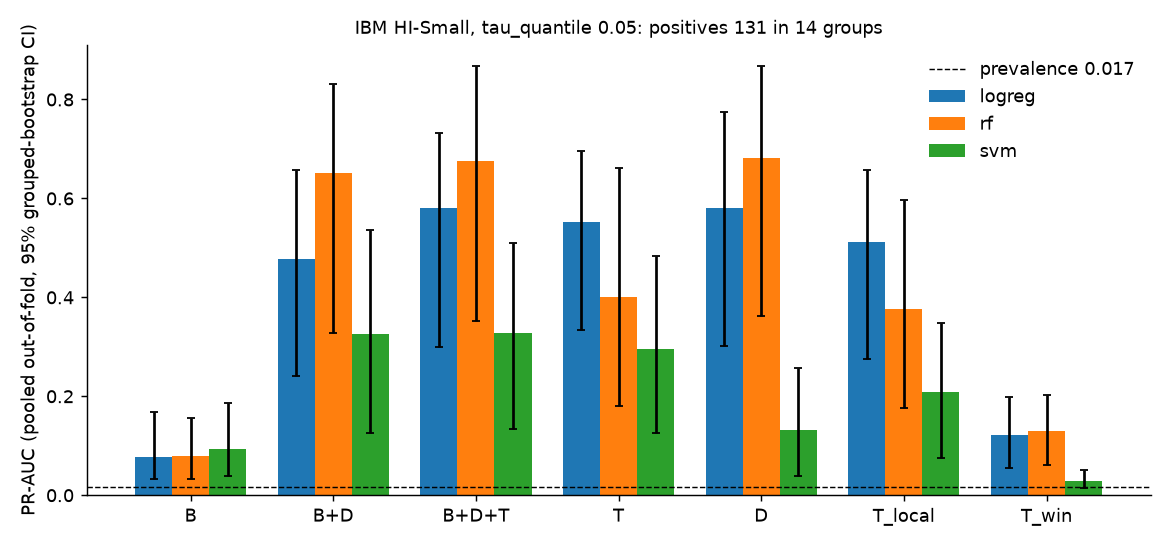
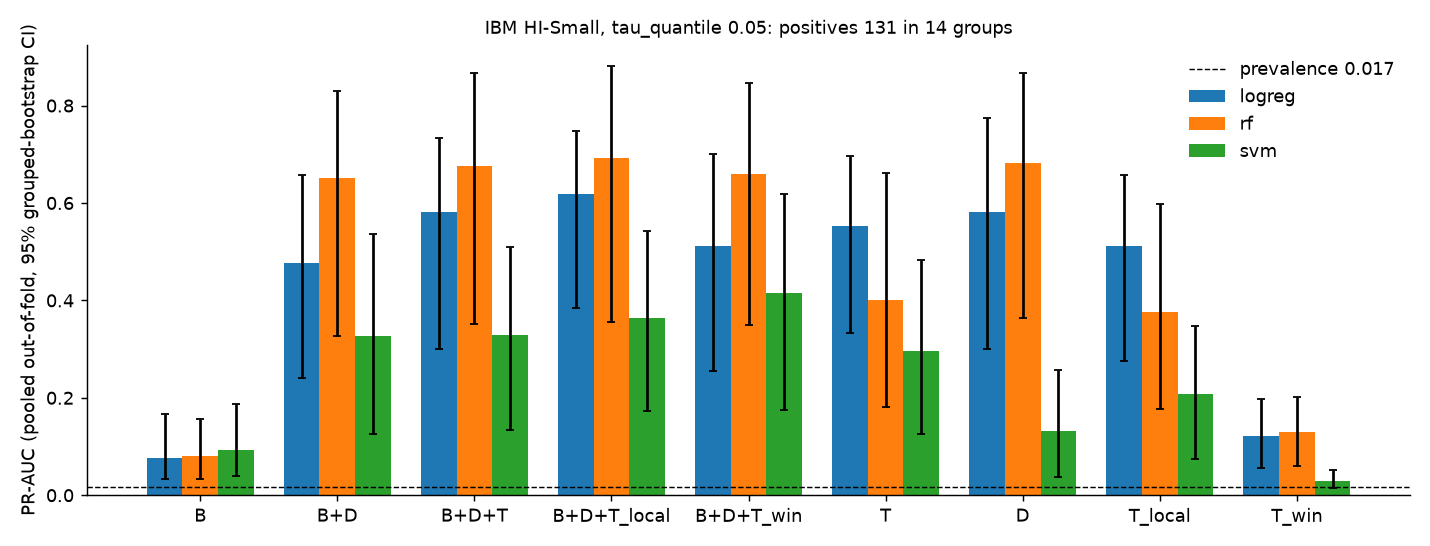
Add per-scenario lift figure and regenerate HI figure
Redraw the HI PR-AUC figure with the ablation rows, add the paired-difference
figure per synthetic scenario, and extend the numbers pack and figure list.

diff --git a/experiments/make_numbers_pack.py b/experiments/make_numbers_pack.py
@@ -666,12 +666,12 @@ md.append("\n".join(f"{i + 1}. {x}" for i, x in enumerate(dev)) + "\n")
 sec("Expected files that were missing")
 md.append("None.\n" if not missing else "\n".join(f"- `{m}`" for m in missing) + "\n")
 (OUT / "numbers_pack.md").write_text("\n".join(md) + "\n")
-pd.DataFrame(prov).to_csv(PACK / "provenance.csv", index=False)
 
 # ====================================================================== figures + captions
 figs = [
     (CL / "HI_tau0.05" / "pr_auc.png", "hi_pr_auc.png"),
     (SYN / "pr_auc.png", "synthetic_pr_auc.png"),
+    (SYN / "lift_per_scenario.png", "synthetic_lift_per_scenario.png"),
     (CL / "candidate_recall" / "ibm.png", "recall_ibm.png"),
     (CL / "candidate_recall" / "synthetic.png", "recall_synthetic.png"),
     (P3 / "audit" / "HI_audit_scores.png", "hi_audit_scores.png"),
@@ -690,9 +690,12 @@ prev = lambda path, w: get(path, w, "prevalence", "{:.4f}", "figures")  # noqa: 
 w0 = {"variant": "primary", "feature_set": "B", "model": "logreg"}
 fl = ["# Figure list (caption drafts)\n",
       "Copies of existing PNGs in `paper/numbers_pack/figures/` (not regenerated). Every PR-AUC CI is a 95% percentile interval of a grouped bootstrap (resampling groups, 1000 resamples) unless stated.\n"]
+pv = {sc: [float(get(SYN / c / "per_scenario.csv", {"scenario": sc, "feature_set": "B", "model": "logreg"}, "prevalence", "{:.6f}", "figures")) for c in CONDS] for sc in ["isolated", "dense", "chorded"]}
+pg = {sc: get(SYN / "hn-off_chords-default" / "per_scenario.csv", {"scenario": sc, "feature_set": "B", "model": "logreg"}, "n_pos_groups", "{:.0f}", "figures") for sc in ["isolated", "dense", "chorded"]}
 cap = [
-    ("hi_pr_auc.png", f"IBM HI-Small, PR-AUC of B, B+D, B+D+T, T and controls by model; primary variant (ambiguous excluded), prevalence {prev(HIR, w0)}, {get(HIR, w0, 'n_pos_groups', '{:.0f}', 'figures')} positive groups. Error bars: 95% grouped-bootstrap CI. Pooled out-of-fold, mean of 5 repeats."),
+    ("hi_pr_auc.png", f"IBM HI-Small, PR-AUC of B, B+D, B+D+T, B+D+T_local, B+D+T_win, T and the controls D, T_local, T_win by model; primary variant (ambiguous excluded), prevalence {prev(HIR, w0)}, {get(HIR, w0, 'n_pos_groups', '{:.0f}', 'figures')} positive groups. Error bars: 95% grouped-bootstrap CI. Pooled out-of-fold, mean of 5 repeats."),
     ("synthetic_pr_auc.png", "Synthetic data, PR-AUC of B, B+D, B+D+T, B+D+T_local, T by model in the four conditions (hard negatives x dense_internal_chords); primary variant, prevalence " + ", ".join(f"{prev(SYN / c / 'results.csv', w0)} ({c})" for c in CONDS) + ". Error bars: 95% grouped-bootstrap CI over six seeds pooled."),
+    ("synthetic_lift_per_scenario.png", "F7. Synthetic data, paired PR-AUC difference B+D+T minus B+D per scenario (isolated, dense, chorded), by model, hard negatives off (left) and on (right); filled markers = dense_internal_chords default, hollow = off. Error bars: 95% grouped-bootstrap CI of the paired difference (same resamples for both feature sets). **Prevalence differs per scenario** (positives of one scenario against all negatives): " + "; ".join(f"{sc} {min(pv[sc]):.4f}-{max(pv[sc]):.4f}" for sc in ["isolated", "dense", "chorded"]) + " across the four conditions; positive groups per scenario " + ", ".join(f"{sc} {pg[sc]}" for sc in ["isolated", "dense", "chorded"]) + " (hn-off, chords default)."),
     ("recall_ibm.png", "Candidate recall of complete CYCLE attempts (reachable ones, at most max_len accounts) against tau_quantile on HI and LI, days 0-5 and whole data, max_len 6 and 8. Counts, not a sample: no CI; prevalence not applicable. LI days 0-5 has one complete attempt."),
     ("recall_synthetic.png", "Recall of planted wash rings (isolated, dense, chorded) against tau_quantile, six seeds, hard negatives off and on. Mean over rings, no CI. With hard negatives on, the cells where the enumeration cap is hit (daggers in section 6.2, from tau 0.25 or 0.30) are limited by the cap."),
     ("hi_audit_scores.png", "IBM HI-Small pattern-behaviour audit: box plots of the rank-normalised s_rec, s_bal, s_reg and the combined weight (low = suspicious) by pattern group and background pairs, pooled over the audited windows. Descriptive: no CI, no class prevalence (pair counts in section 3.5)."),
@@ -713,6 +716,7 @@ if missing and "None." in txt.split("## Expected files that were missing")[-1][:
     pass
 (OUT / "numbers_pack.md").write_text(txt.split("## Expected files that were missing")[0] + "## Expected files that were missing\n\n" + ("None.\n" if not missing else "\n".join(f"- `{m}`" for m in missing) + "\n"))
 
+pd.DataFrame(prov).to_csv(PACK / "provenance.csv", index=False)
 print(f"wrote {OUT / 'numbers_pack.md'} ({len(prov)} registered numbers), {OUT / 'figure_list.md'}")
 print("MISSING:" if missing else "no expected file missing", *missing, sep="\n  " if missing else "")
 

diff --git a/experiments/plot_lift_per_scenario.py b/experiments/plot_lift_per_scenario.py
@@ -1,0 +1,44 @@
+"""F7: paired difference B+D+T minus B+D per synthetic scenario, from per_scenario_paired.csv only (no model runs).
+
+    python experiments/plot_lift_per_scenario.py
+
+One panel per hard-negative setting; x = scenario (isolated, dense, chorded); colour = model; filled marker =
+dense_internal_chords default, hollow = off. Error bars: 95% grouped-bootstrap CI of the paired difference
+(same resamples for both feature sets, resampling groups). Prevalence differs per scenario (positives of one
+scenario against all negatives): it is printed under each scenario label.
+"""
+
+from pathlib import Path
+
+import matplotlib
+
+matplotlib.use("Agg")
+import matplotlib.pyplot as plt
+import pandas as pd
+
+D = Path("results/phase3_features/classify/synthetic")
+SCN, MODELS = ["isolated", "dense", "chorded"], ["logreg", "rf", "svm"]
+COL = {"logreg": "tab:blue", "rf": "tab:orange", "svm": "tab:green"}
+fig, axes = plt.subplots(1, 2, figsize=(11, 4.2), sharey=True)
+for ax, hn in zip(axes, ["off", "on"]):
+    prev = {}
+    for ch, filled in (("default", True), ("off", False)):
+        c = f"hn-{hn}_chords-{ch}"
+        P = pd.read_csv(D / c / "per_scenario_paired.csv")
+        S = pd.read_csv(D / c / "per_scenario.csv")
+        P = P[P.comparison == "B+D+T minus B+D"]
+        for i, scn in enumerate(SCN):
+            prev.setdefault(scn, []).append(float(S[(S.scenario == scn) & (S.feature_set == "B") & (S.model == "logreg")].prevalence.iloc[0]))
+            for j, m in enumerate(MODELS):
+                r = P[(P.scenario == scn) & (P.model == m)].iloc[0]
+                x = i + (j - 1) * 0.22 + (0.05 if filled else -0.05)
+                ax.errorbar(x, r["diff"], yerr=[[r["diff"] - r.ci_low], [r.ci_high - r["diff"]]], fmt="o", ms=5, capsize=2, color=COL[m], mfc=COL[m] if filled else "white", label=m if (i == 0 and filled) else None)
+    ax.axhline(0, c="k", lw=0.8)
+    ax.set_xticks(range(len(SCN)), [f"{s}\nprevalence {min(prev[s]):.4f}-{max(prev[s]):.4f}" for s in SCN], fontsize=8)
+    ax.set_title(f"hard negatives {hn}", fontsize=10)
+    ax.spines[["top", "right"]].set_visible(False)
+axes[0].set_ylabel("PR-AUC difference, B+D+T minus B+D\n(95% grouped-bootstrap CI)")
+axes[0].legend(frameon=False, title="filled: chords default, hollow: chords off", fontsize=8, title_fontsize=7)
+fig.tight_layout()
+fig.savefig(D / "lift_per_scenario.png", dpi=150)
+print("wrote", D / "lift_per_scenario.png")

diff --git a/experiments/ibm_classify_plot.py b/experiments/ibm_classify_plot.py
@@ -15,9 +15,9 @@ ds, tau = (sys.argv[1] if len(sys.argv) > 1 else "HI"), (sys.argv[2] if len(sys.
 D = Path("results/phase3_features/classify") / f"{ds}_tau{tau}"
 R = pd.read_csv(D / "results.csv")
 R = R[(R.variant == "primary") & (R.model != "none")]
-sets = [s for s in ["B", "B+D", "B+D+T", "T", "D", "T_local", "T_win"] if s in set(R.feature_set)]
+sets = [s for s in ["B", "B+D", "B+D+T", "B+D+T_local", "B+D+T_win", "T", "D", "T_local", "T_win"] if s in set(R.feature_set)]
 models = ["logreg", "rf", "svm"]
-fig, ax = plt.subplots(figsize=(9, 4.2))
+fig, ax = plt.subplots(figsize=(11, 4.2))
 w = 0.26
 for i, m in enumerate(models):
     d = R[R.model == m].set_index("feature_set").reindex(sets)

diff --git a/paper/figure_list.md b/paper/figure_list.md
@@ -2,8 +2,9 @@
 
 Copies of existing PNGs in `paper/numbers_pack/figures/` (not regenerated). Every PR-AUC CI is a 95% percentile interval of a grouped bootstrap (resampling groups, 1000 resamples) unless stated.
 
-- **hi_pr_auc.png**: IBM HI-Small, PR-AUC of B, B+D, B+D+T, T and controls by model; primary variant (ambiguous excluded), prevalence 0.0173, 14 positive groups. Error bars: 95% grouped-bootstrap CI. Pooled out-of-fold, mean of 5 repeats.
+- **hi_pr_auc.png**: IBM HI-Small, PR-AUC of B, B+D, B+D+T, B+D+T_local, B+D+T_win, T and the controls D, T_local, T_win by model; primary variant (ambiguous excluded), prevalence 0.0173, 14 positive groups. Error bars: 95% grouped-bootstrap CI. Pooled out-of-fold, mean of 5 repeats.
 - **synthetic_pr_auc.png**: Synthetic data, PR-AUC of B, B+D, B+D+T, B+D+T_local, T by model in the four conditions (hard negatives x dense_internal_chords); primary variant, prevalence 0.0203 (hn-off_chords-default), 0.0267 (hn-off_chords-off), 0.0412 (hn-on_chords-default), 0.0481 (hn-on_chords-off). Error bars: 95% grouped-bootstrap CI over six seeds pooled.
+- **synthetic_lift_per_scenario.png**: F7. Synthetic data, paired PR-AUC difference B+D+T minus B+D per scenario (isolated, dense, chorded), by model, hard negatives off (left) and on (right); filled markers = dense_internal_chords default, hollow = off. Error bars: 95% grouped-bootstrap CI of the paired difference (same resamples for both feature sets). **Prevalence differs per scenario** (positives of one scenario against all negatives): isolated 0.0108-0.0265; dense 0.0048-0.0113; chorded 0.0050-0.0118 across the four conditions; positive groups per scenario isolated 39, dense 10, chorded 8 (hn-off, chords default).
 - **recall_ibm.png**: Candidate recall of complete CYCLE attempts (reachable ones, at most max_len accounts) against tau_quantile on HI and LI, days 0-5 and whole data, max_len 6 and 8. Counts, not a sample: no CI; prevalence not applicable. LI days 0-5 has one complete attempt.
 - **recall_synthetic.png**: Recall of planted wash rings (isolated, dense, chorded) against tau_quantile, six seeds, hard negatives off and on. Mean over rings, no CI. With hard negatives on, the cells where the enumeration cap is hit (daggers in section 6.2, from tau 0.25 or 0.30) are limited by the cap.
 - **hi_audit_scores.png**: IBM HI-Small pattern-behaviour audit: box plots of the rank-normalised s_rec, s_bal, s_reg and the combined weight (low = suspicious) by pattern group and background pairs, pooled over the audited windows. Descriptive: no CI, no class prevalence (pair counts in section 3.5).
@@ -14,7 +15,4 @@ Copies of existing PNGs in `paper/numbers_pack/figures/` (not regenerated). Ever
 - **fig3_birth_distributions.png**: optimization-report figure (pinned report generator, deterministic); no CI and no class prevalence stated here, see the report text.
 - **fig4_precision_recall.png**: optimization-report figure (pinned report generator, deterministic); no CI and no class prevalence stated here, see the report text.
 - **fig5_threshold_drift.png**: optimization-report figure (pinned report generator, deterministic); no CI and no class prevalence stated here, see the report text.
-
-**Flags.**
-- `hi_pr_auc.png` was drawn before the ablation rows were appended to `results.csv`; it does not show B+D+T_local / B+D+T_win (not regenerated).
 
